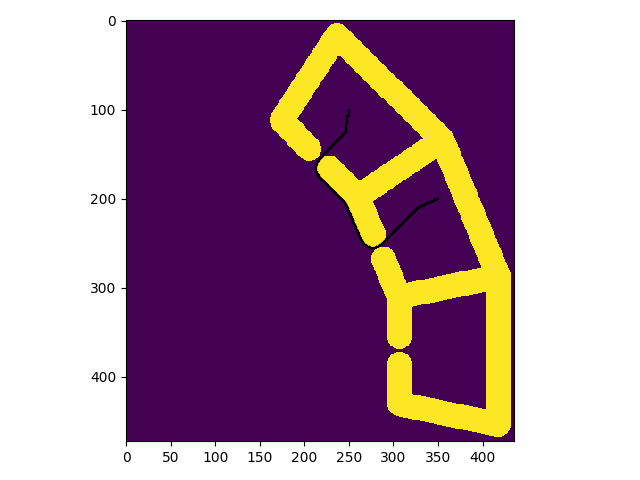
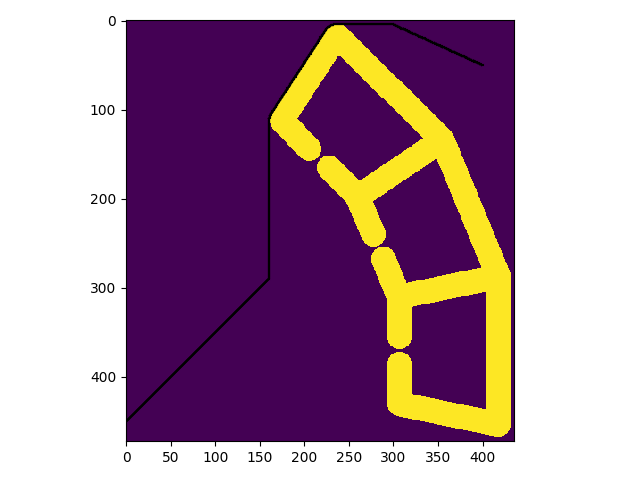
Astar improvement

diff --git a/HW2/run.py b/HW2/run.py
@@ -9,13 +9,13 @@ from AStarPlanner import AStarPlanner
 
 from IPython import embed
 
-def main(planning_env, planner, start, goal):
+def main(planning_env, planner, start, goal, planner_type):
 
     # Notify.
     input('Press any key to begin planning')
 
     # Plan.
-    plan, cost = planner.Plan(start, goal)
+    plan, cost, visited = planner.Plan(start, goal)
 
     # Shortcut the path.
     # TODO (student): Do not shortcut when comparing the performance of algorithms. 
@@ -23,7 +23,10 @@ def main(planning_env, planner, start, goal):
     plan_short = planner.ShortenPath(plan)
 
     # Visualize the final path.
-    planning_env.visualize_plan(plan)
+    if planner_type == 'astar':
+        planning_env.visualize_plan(plan, visited)
+
+    # planning_env.
     print('cost: ',cost)
     embed()
 
@@ -55,4 +58,4 @@ if __name__ == "__main__":
         print('Unknown planner option: %s' % args.planner)
         exit(0)
 
-    main(planning_env, planner, args.start, args.goal)
+    main(planning_env, planner, args.start, args.goal, args.planner)

diff --git a/HW2/AStarPlanner.py b/HW2/AStarPlanner.py
@@ -39,10 +39,9 @@ class AStarPlanner(object):
                 if t_g < g[neighbour]:
                     came_from[neighbour] = current
                     g[neighbour] = t_g
-                    f[neighbour] = g[neighbour] + 20 * compute_heuristic(neighbour)
+                    f[neighbour] = g[neighbour] + 1 * compute_heuristic(neighbour)
                     if neighbour not in open_set:
                         open_set[neighbour] = f[neighbour]
-
 
         plan.append(goal_config)
         current = goal_config
@@ -54,7 +53,8 @@ class AStarPlanner(object):
 
         expansion_count = np.count_nonzero(~np.isinf(g))
         print('expanded nodes:', expansion_count)
-        return np.array(plan), g[goal_config]
+
+        return np.array(plan), g[goal_config], f
 
 
     def find_neighbours(self, config, map_shape):

diff --git a/HW2/MapEnvironment.py b/HW2/MapEnvironment.py
@@ -47,14 +47,15 @@ class MapEnvironment(object):
     def compute_heuristic(self, config):
         return self.compute_distance(config, self.goal)
 
-    def visualize_plan(self, plan):
+    def visualize_plan(self, plan, visited=None):
         '''
         Visualize the final path
         @param plan Sequence of states defining the plan.
         '''
-        plt.imshow(self.map, interpolation='nearest')
+        plt.imshow(self.map, interpolation='nearest', cmap='Greys')
+        plt.imshow(visited)
         for i in range(numpy.shape(plan)[0] - 1):
             x = [plan[i,0], plan[i+1, 0]]
             y = [plan[i,1], plan[i+1, 1]]
-            plt.plot(y, x, 'k')
+            plt.plot(y, x, 'r')
         plt.show()

diff --git a/HW2/wet.md b/HW2/wet.md
@@ -2,13 +2,37 @@
 The starting point was set to `100 250` and goal to `200 350`
 ### $$\epsilon=1$$
 ![](./img/astar_e1.png)
-cost = 296.13203435596506
-exanded nodes = 15934
+expanded nodes: 135502
+cost:  730.3229432149761
 ### $$\epsilon=10$$
 ![](./img/astar_e10.png)
-expanded nodes: 7350
-cost:  296.13203435596506
+expanded nodes: 26981
+cost:  775.0580079512716
 ### $$\epsilon=20$$
 ![](./img/astar_e20.png)
-expanded nodes: 7092
-cost:  296.13203435596506
+expanded nodes: 26165
+cost:  779.2001435750027
+
+### Discussion
+As can be seen from the results the number of expanded nodes decreases with a greater epsilon
+but at a cost of a longer, less optimal path length
+
+
+v2
+e20
+expanded nodes: 24142
+cost:  476.3574311003817
+
+e1
+expanded nodes: 42013
+cost:  476.3574311003817
+
+v3
+e1
+expanded nodes: 135502
+cost:  730.3229432149761
+
+e20
+expanded nodes: 26165
+cost:  779.2001435750027
+
